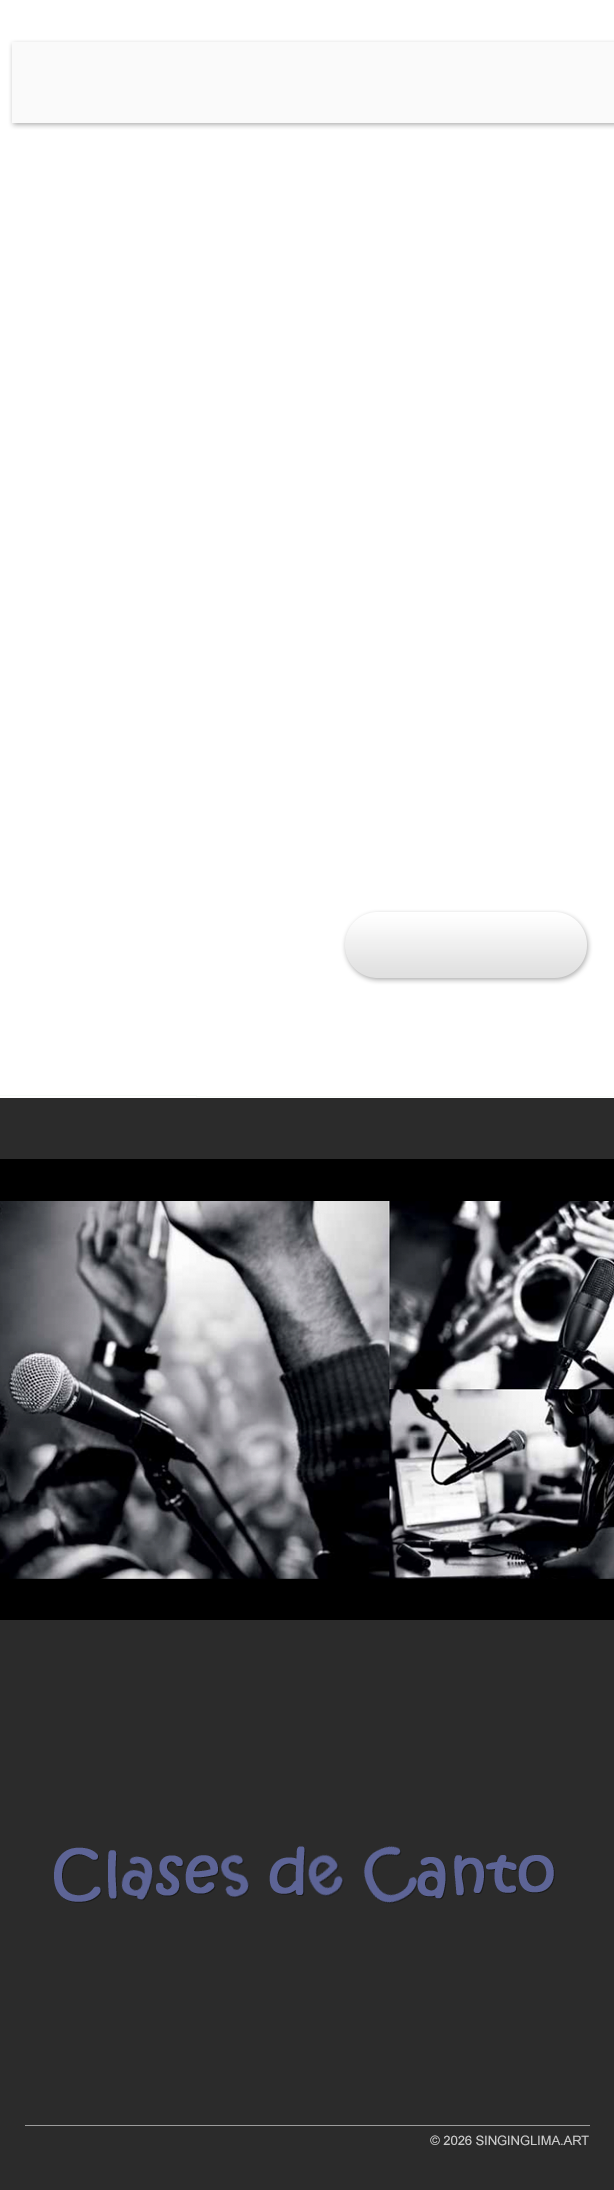
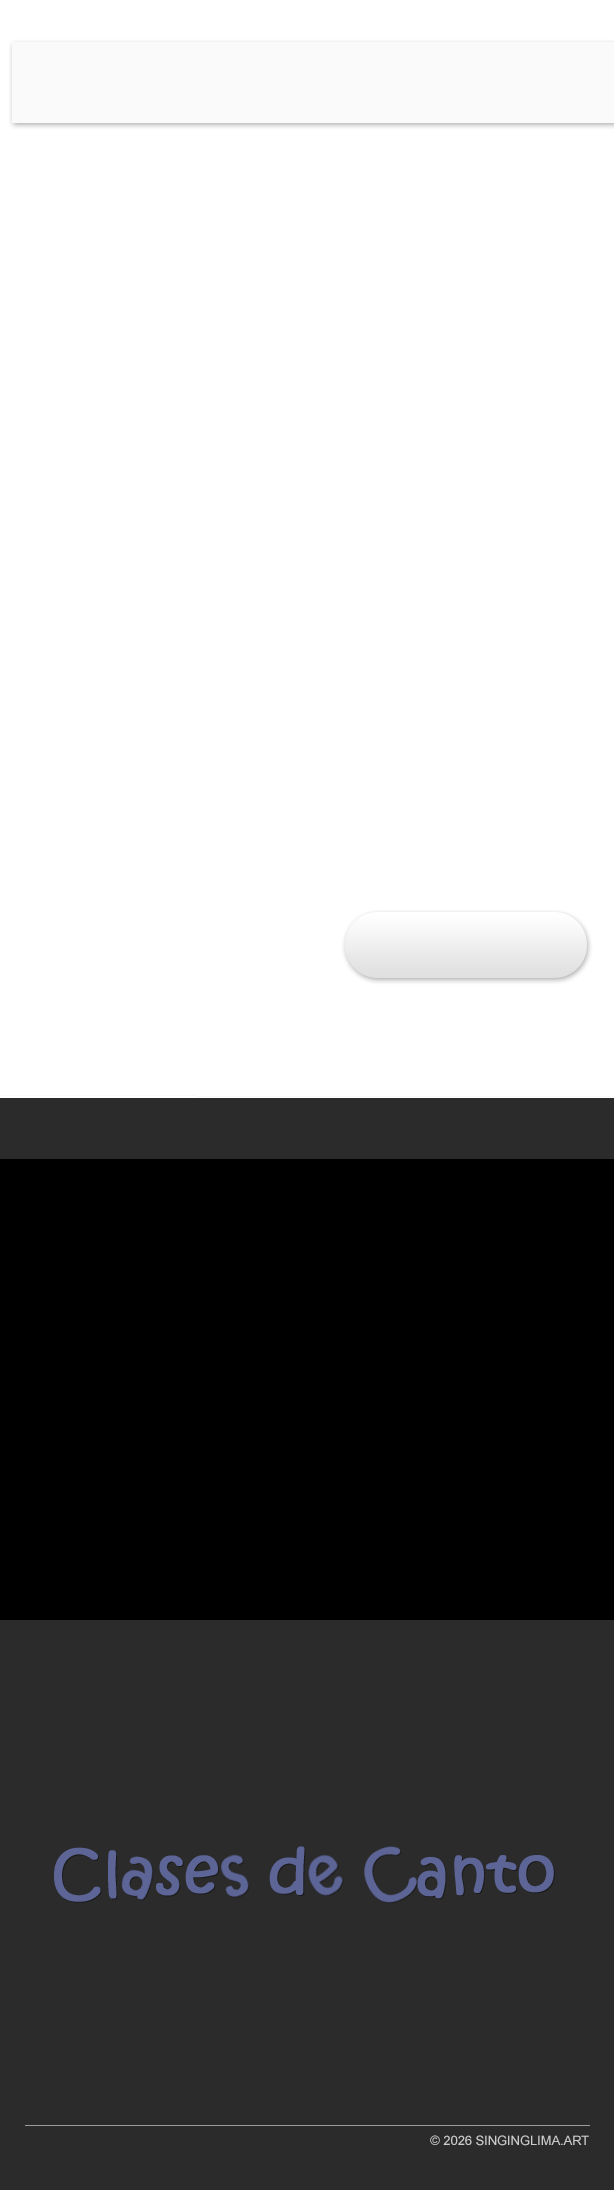
Add files via upload

Changed region(s): [[0.0, 0.5279, 1.0, 0.7452]]

diff --git a/index.html b/index.html
@@ -77,7 +77,7 @@ a {
 <link rel="canonical" href="https://singinglima.art">
 </head>
 <body >
-<table width="614" height="2193" border="0" align="center" cellpadding="00" cellspacing="0" background="webcgadm.png" style="background-repeat:no-repeat">
+<table width="614" height="2190" border="0" align="center" cellpadding="00" cellspacing="0" background="webcgadm.png" style="background-repeat:no-repeat">
   <tbody>
   <tr>
       <td height="166" colspan="3" align="left" valign="middle" style="padding-left:29px"><header><h1 style="text-shadow: 1px 1px 2px #AAA;">Clases de Canto en Surco</h1></header></td>
@@ -103,6 +103,15 @@ a {
       <td width="27">&nbsp;</td></nav>
     </tr>
     <tr>
+      <td height="221" colspan="3" align="center" valign="bottom">&nbsp;</td>
+    </tr>
+    <tr>
+      <td height="378" id="imgbox" colspan="3" align="center" valign="bottom" style="background-image:url('img01.png')" onClick="img(0);">&nbsp;</td>
+    </tr>
+    <tr>
+      <td height="40" colspan="3" align="center" valign="bottom" style="font-size:52px; padding-bottom:4px;"><span id="p1" style="color:#FFF; cursor:pointer" onClick="img(1);">&middot;</span> <span id="p2" style="color:#888; cursor:pointer" onClick="img(2);">&middot;</span></td>
+    </tr>
+    <tr>
       <td colspan="3" align="center" valign="bottom">&nbsp;</td>
     </tr>
     <tr>
@@ -114,5 +123,39 @@ a {
   </tbody>
 </table>
 
+<script>
+var nI = 1;
+function img(n){
+	if (n==0) {
+		switch (nI){
+			case 1:
+				n=2;
+				break;
+			case 2:
+				n=1;
+				break;
+		}
+	}
+	nI=n;
+	var ibox=document.getElementById("imgbox");
+	var p1=document.getElementById("p1");
+	var p2=document.getElementById("p2");
+	
+	switch(n){
+		case 1:
+			p1.style.color = "#FFF";
+			p2.style.color = "#888";
+			ibox.style.backgroundImage = "";
+			setTimeout(() => {ibox.style.backgroundImage = "url('img01.png')";}, 300);
+			break;
+		case 2:
+			p1.style.color = "#888";
+			p2.style.color = "#FFF";
+			ibox.style.backgroundImage = "";
+			setTimeout(() => {ibox.style.backgroundImage = "url('img02.png')";}, 300);
+			break;
+	}
+}
+</script>
 </body>
 </html>
